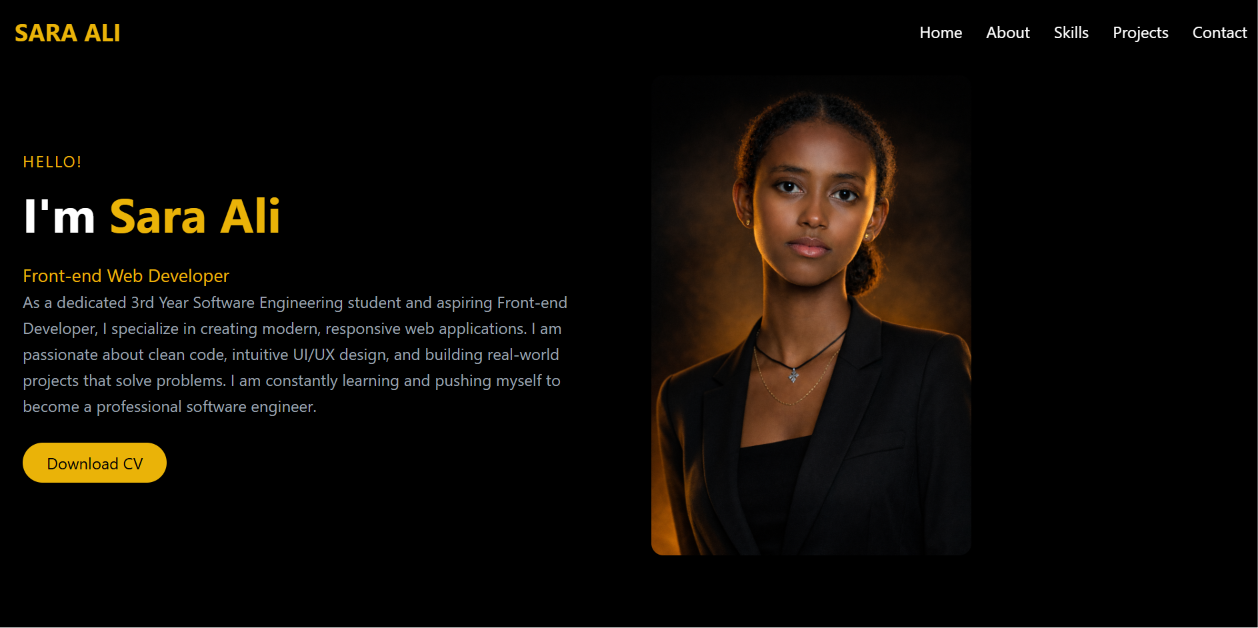
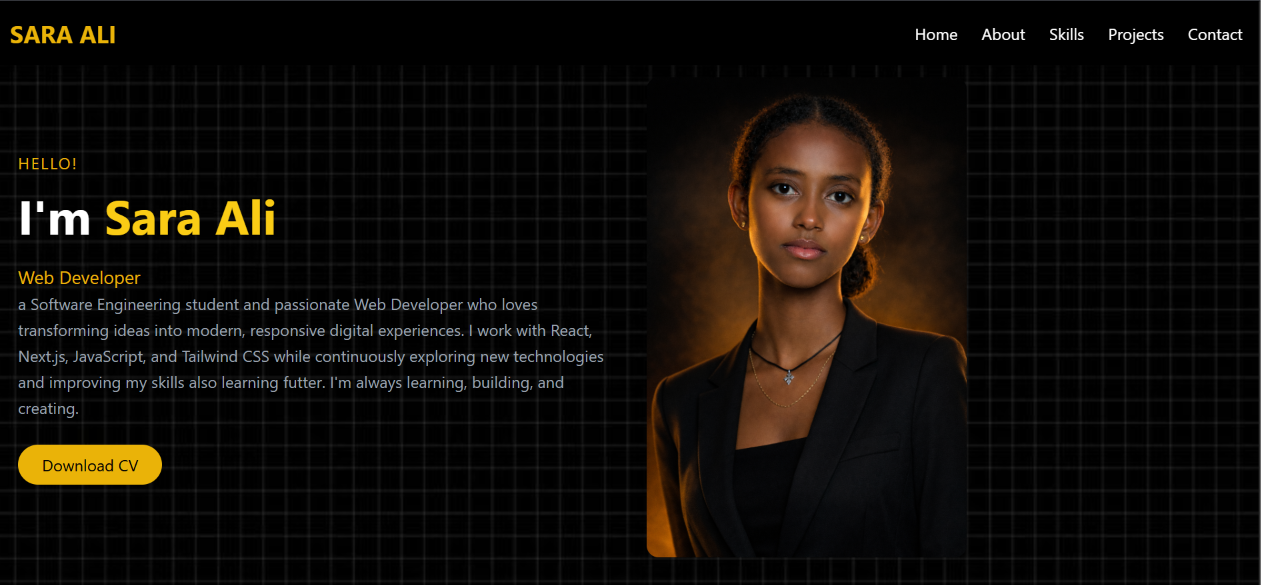
Refactor code structure for improved readability and maintainability

diff --git a/index.html b/index.html
@@ -6,7 +6,7 @@
   <meta name="viewport" content="width=device-width, initial-scale=1.0" />
   <title>Sara Ali - Portfolio</title>
   <script src="https://cdn.tailwindcss.com"></script>
-  <link href="dist/output.css" rel="stylesheet">
+  <link href="css/output.css" rel="stylesheet">
   <script defer src="js/main.js"></script>
 </head>
 
@@ -29,21 +29,19 @@
       </button>
     </div>
   </header>
-  <section id="home" class="min-h-screen flex items-center bg-cover bg-center">
+  <section id="bg" class="min-h-screen flex items-center bg-cover bg-center">
     <div class="container mx-auto grid md:grid-cols-2 gap-10 items-center px-6">
       <div>
         <p class="text-yellow-500 uppercase tracking-widest">Hello!</p>
         <h1 class="text-5xl font-bold mt-4">
-          I'm <span class="text-yellow-500">Sara Ali</span>
+          I'm <span class="text-yellow-400">Sara Ali</span>
         </h1>
         <p class="mt-6 text-lg text-yellow-500">
-          Front-end Web Developer
+          Web Developer
         </p>
         <p class="text-gray-400 leading-relaxed">
-          As a dedicated 3rd Year Software Engineering student and aspiring Front-end Developer,
-          I specialize in creating modern, responsive web applications. I am passionate about
-          clean code, intuitive UI/UX design, and building real-world projects that solve problems.
-          I am constantly learning and pushing myself to become a professional software engineer.
+           a Software Engineering student and passionate Web Developer who loves transforming ideas into modern,
+         responsive digital experiences. I work with React, Next.js, JavaScript, and Tailwind CSS while continuously exploring new technologies and improving my skills also learning futter. I'm always learning, building, and creating.
         </p>    
         <button type="button" class="mt-6 inline-block bg-yellow-500 px-6 py-2 rounded-full text-black
              transition duration-300 ease-in-out hover:bg-yellow-400 hover:scale-105 hover:shadow-lg"
@@ -79,7 +77,7 @@
     </div>
   </section>
 
-  <section id="skills" class="bg-black text-white py-16 px-6 md:px-12">
+  <section id="bg" class="bg-black text-white py-16 px-6 md:px-12">
     <div class="max-w-6xl mx-auto">
       <div class="text-center mb-12">
         <h2 class="text-4xl md:text-5xl font-bold">My <span class="text-yellow-500">Skills</span></h2>
@@ -103,9 +101,16 @@
         <div
           class="bg-black rounded-lg p-4 shadow-md hover:shadow-2xl hover:scale-[1.03] transition duration-300 border border-gray-700 max-w-xs mx-auto">
           <div class="flex items-center justify-center mb-4">
-            <img src="asset/icons/mysql.png" alt="MySQL" class="w-12 h-16 md:w-20 md:h-20 object-contain">
+            <img src="asset/icons/typescript.png" alt="TypeScript" class="w-12 h-16 md:w-20 md:h-20 object-contain">
           </div>
-          <h3 class="text-xl text-yellow-500 font-semibold text-center mb-2">MySQL</h3>
+          <h3 class="text-xl text-yellow-500 font-semibold text-center mb-2">TypeScript</h3>
+        </div>
+         <div
+          class="bg-black rounded-lg p-4 shadow-md hover:shadow-2xl hover:scale-[1.03] transition duration-300 border border-gray-700 max-w-xs mx-auto">
+          <div class="flex items-center justify-center mb-4">
+            <img src="asset/icons/nextjs.png" alt="Next" class="w-12 h-16 md:w-20 md:h-20 object-contain">
+          </div>
+          <h3 class="text-xl text-yellow-500 font-semibold text-center mb-2">Next.js</h3>
         </div>
       </div>
     </div>
@@ -132,6 +137,19 @@
         </div>
         <div
           class="bg-black rounded-lg overflow-hidden shadow-lg hover:scale-105 transition border border-gray-700 duration-300">
+          <img src="asset/images/project3.png" alt="Project 2" class="w-full h-48 object-cover">
+          <div class="p-6">
+            <h3 class="text-xl text-yellow-500 font-semibold mb-2">Fitline-shop</h3>
+            <p class="text-gray-400 text-sm mb-4">
+              clothing e-commerce (Frontend) using React.
+            </p>
+            <div class="flex justify-between items-center">
+              <a href="https://github.com/sara-ali7" class="text-yellow-500 text-sm hover:underline">GitHub</a>
+            </div>
+          </div>
+        </div>
+          <div
+          class="bg-black rounded-lg overflow-hidden shadow-lg hover:scale-105 transition border border-gray-700 duration-300">
           <img src="asset/images/project2.jpg" alt="Project 2" class="w-full h-48 object-cover">
           <div class="p-6">
             <h3 class="text-xl text-yellow-500 font-semibold mb-2">CBTP Front-end</h3>
@@ -143,11 +161,24 @@
             </div>
           </div>
         </div>
+          <div
+          class="bg-black rounded-lg overflow-hidden shadow-lg hover:scale-105 transition border border-gray-700 duration-300">
+          <img src="asset/images/project4.png" alt="Project 2" class="w-full h-48 object-cover">
+          <div class="p-6">
+            <h3 class="text-xl text-yellow-500 font-semibold mb-2">BE-xpert</h3>
+            <p class="text-gray-400 text-sm mb-4">
+              (e-commerce) using Next.js and a public API.
+            </p>
+            <div class="flex justify-between items-center">
+              <a href="https://github.com/sara-ali7" class="text-yellow-500 text-sm hover:underline">GitHub</a>
+            </div>
+          </div>
+        </div>
       </div>
     </div>
   </section>
 
-  <section id="contact" class="bg-black text-white py-16 px-6 md:px-12">
+  <section id="bg" class="bg-black text-white py-16 px-6 md:px-12">
     <div class="max-w-6xl mx-auto px-6">
       <h2 class="text-4xl font-bold text-center mb-14">
         Contact <span class="text-yellow-500">Me</span>
@@ -166,8 +197,8 @@
             </p>
           </div>
           <div class="space-y-4 text-sm">
-            <p><span class="text-yellow-500 font-semibold">Email:</span> saraali@gmail.com</p>
-            <p><span class="text-yellow-500 font-semibold">Phone:</span> +251 900 000 000</p>
+            <p><span class="text-yellow-500 font-semibold">Email:</span> onlylala116@gmail.com</p>
+            <p><span class="text-yellow-500 font-semibold">Phone:</span> +251 991 110 968</p>
             <p><span class="text-yellow-500 font-semibold">Location:</span> Addis Ababa, Ethiopia</p>
           </div>
         </div>
@@ -178,7 +209,7 @@
               <img src="asset/icons/github.png" alt="">
               GitHub
             </a>
-            <a href="#" class="hover:text-yellow-500 transition">
+            <a href="https://www.linkedin.com/in/sara-ali-310647359/?lipi=urn%3Ali%3Apage%3Ad_flagship3_profile_view_base_contact_details%3BKCdw%2FUY1TUWWOLjILwxCnQ%3D%3D" class="hover:text-yellow-500 transition">
               <img src="asset/icons/linkedin.png" alt="">
               LinkedIn
             </a>

diff --git a/css/output.css b/css/output.css
@@ -1,5 +1,5 @@
-#home, #skills, #contact {
-  background-image: url('../asset/images/bg.jpeg');
+#bg {
+  background-image: url("../asset/images/background.jpeg");
   background-size: cover;
   background-position: center;
 }
